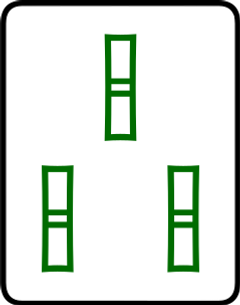
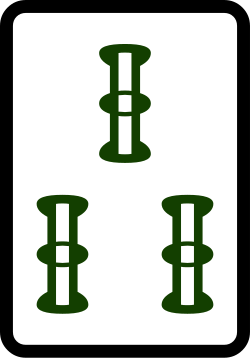
更换牌面素材：0101一萬 系列（CC BY-SA 4.0），替换 MJ 系列
- 应产品决定改用 Commons「0101一萬 … 0309九條」系列（作者 碧海风），
  27 张 250×358 透明底 PNG（约 368KB），命名与文件布局不变（wan_1.png … tiao_9.png）
- 授权从公有领域变为 CC BY-SA 4.0：ASSETS.md 写明两条义务——
  App 内署名（© 碧海风，CC BY-SA 4.0，来源 Wikimedia Commons）与图片本身相同方式共享；
  上架前落实署名页
- 获取脚本改为本地计算 Commons 缩略图直链（md5(完整文件名含 .svg) 规则），
  绕开对代理 IP 限流严格的 Special:FilePath 路由（此前 27 张全 429 的原因），
  并修复 md5 漏拼 .svg 扩展名导致的整批 404
- 牌面特性：黑框黑数字 + 透明背景，深色界面渲染时需垫白色圆角底（D1 落实）

验证：27/27 下载成功、尺寸全部 250×358、白底合成目检通过（框/字/彩色齐全）

diff --git a/docs/ASSETS.md b/docs/ASSETS.md
@@ -5,26 +5,34 @@
 
 ## 麻将牌面（万 / 筒 / 条 × 1–9，共 27 张）
 
-- **位置**：`apps/apk/assets/resources/tiles/`，命名 `tile 花色_点数` → `wan_1.png` … `tiao_9.png`
+- **位置**：`apps/apk/assets/resources/tiles/`，命名 `花色_点数` → `wan_1.png` … `tiao_9.png`
   （筒 = Commons 上的「餅 / bing」，条 = 「條 / tiao」）
-- **来源**：Wikimedia Commons，`MJ` 系列（Unicode 麻将牌 SVG 集）：
-  - 万：`File:MJ1wan.svg` … `File:MJ9wan.svg`
-  - 筒：`File:MJ1bing.svg` … `File:MJ9bing.svg`
-  - 条：`File:MJ1tiao.svg` … `File:MJ9tiao.svg`
+- **来源**：Wikimedia Commons，「0101一萬」系列（Unicode 麻将牌 SVG 集）：
+  - 万：`File:0101一萬.svg` … `File:0109九萬.svg`
+  - 筒：`File:0201一餅.svg` … `File:0209九餅.svg`
+  - 条：`File:0301一條.svg` … `File:0309九條.svg`
   - 分类页：`Category:SVG Planar illustrations of Mahjong tiles`
-- **授权**：**公有领域**（作者 Shizhao 放弃版权，另按 GPLv2 双许可；游戏素材按 PD 使用，
-  无署名义务）。抽查记录：`File:MJ1wan.svg` 页面明确标注 released into the public domain。
+- **授权**：**CC BY-SA 4.0**（作者 碧海风，2018-07-10 自传作品）。
+  **两条义务，上架/分发前必须落实**：
+  1. **署名**——App 内（关于/致谢页）标注：牌面素材 © 碧海风，CC BY-SA 4.0，
+     来源 Wikimedia Commons（附分类或文件页链接）；本文档即仓库侧登记。
+  2. **相同方式共享**——这 27 张图（含对它们的修改）对外分发时继续按 CC BY-SA 4.0 授权；
+     只约束这批图片本身，不波及游戏代码。
+  授权抽查：`0101一萬.svg`、`0301一條.svg` 两张确认（同批同作者，2026-09-16）。
 - **下载日期**：2026-09-16
-- **加工**：Commons 服务端把 SVG 栅格化 → 经 images.weserv.nl 代理取回（本机直连 Wikimedia
-  被网络阻断）→ 240×305 PNG（透明背景），无其他修改。
-- **复现**：`node apps/apk/tools/fetch-tiles.mjs <输出目录>`（脚本内注明源文件名）。
-- **规格**：27 张 × 240×305，共约 641KB；万=蓝红汉字、筒=花心圆圈、条=红绿条棍，风格统一。
+- **加工**：Commons 服务端栅格化的 250px PNG（250×358，透明背景，共约 368KB），
+  经 images.weserv.nl 代理取回（本机直连 Wikimedia 被网络阻断），无其他修改。
+  **注意**：牌框与数字为黑色线稿、背景透明——深色界面渲染时需垫白色圆角底
+  （效果即 Commons 白底预览的经典牌面）。
+- **复现**：`node apps/apk/tools/fetch-tiles.mjs <输出目录>`
+  （脚本按 Commons 规则本地计算 md5 缩略图直链：`md5(完整文件名含 .svg)` 前 1/2 字符作目录，
+  `250px-<名>.svg.png`；不走 `Special:FilePath`——该 wiki 路由对代理 IP 限流极严，会 429）。
 
-### 落选记录（避免重复筛选）
+### 落选 / 备用记录（避免重复筛选）
 
-- 同分类的 `0101一萬.svg` … `0309九條.svg` 系列：**CC BY-SA 4.0**（作者 碧海风），
-  因 Share-Alike 传染性落选。
-- OpenGameArt「Mahjong Tileset」：CC-BY 3.0 可用但需署名，作为备选保留
+- 同分类 `MJ1wan.svg` … `MJ9tiao.svg` 系列：**公有领域**（作者 Shizhao），曾短暂采用后被替换；
+  如需零义务方案可换回（获取方式见 git 历史 ea21a2c）。
+- OpenGameArt「Mahjong Tileset」：CC-BY 3.0 可用但需署名
   （<https://opengameart.org/content/mahjong-tileset>）。
 - itch.io 上的像素/立直风格包（本机网络无法直接验证授权原文），暂未采用。
 
